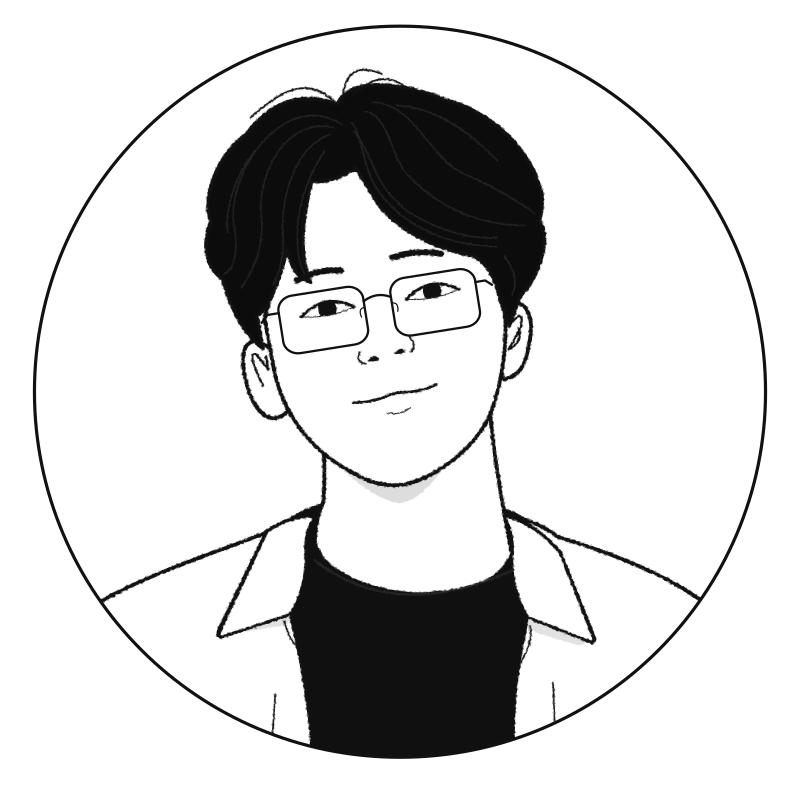
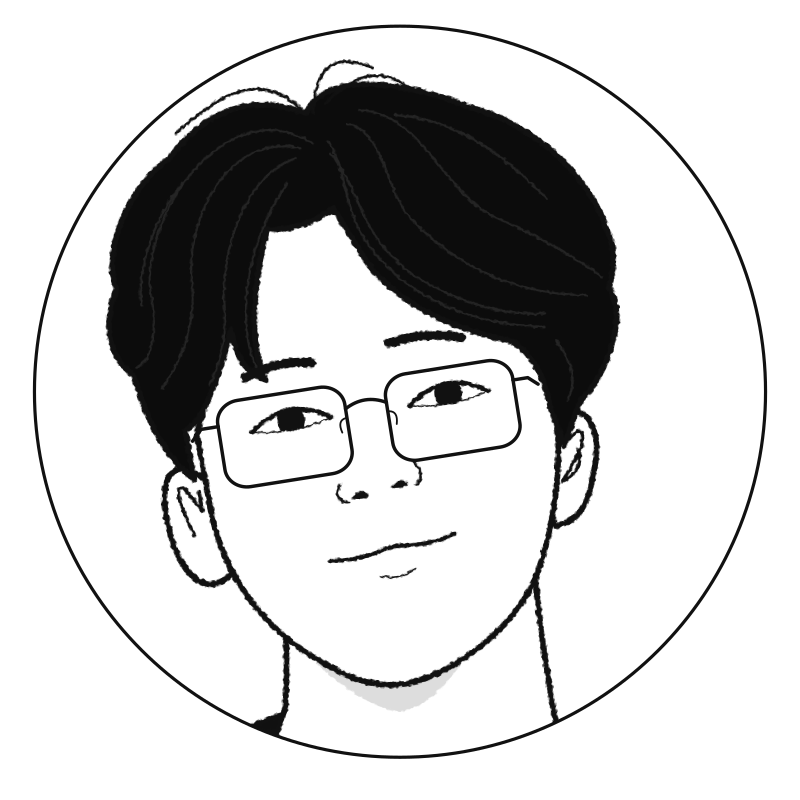
fix: enlarge presenter close-up by another 50 percent

diff --git a/shorts/src/presenter/Presenter.tsx b/shorts/src/presenter/Presenter.tsx
@@ -34,7 +34,7 @@ export const Presenter: React.FC<PresenterState & {pose?: Partial<RigPose>; show
     <circle cx="627" cy="614" r="573" fill="white" />
     <g clipPath={`url(#${id})`} stroke="#111" strokeWidth="5" strokeLinecap="round" strokeLinejoin="round">
       {/* Keep the circular frame fixed; zoom the whole portrait around the hairline. */}
-      <g data-part="portrait-framing" transform="translate(627 135) scale(1.2) translate(-627 -135)">
+      <g data-part="portrait-framing" transform="translate(627 135) scale(1.8) translate(-627 -135)">
       <g data-part="body-ink" filter={`url(#${id}-ink-body)`}>
       <g data-part="body">
         <path d="M466 714 Q511 678 551 680 L732 680 Q785 691 818 722 L862 1240 L413 1240Z" fill="#101010" />

diff --git a/shorts/docs/presenter-api.md b/shorts/docs/presenter-api.md
@@ -4,7 +4,7 @@
 
 손·전완 렌더와 손 제스처를 제거했다. 현재 action은 작은 고개 반응만 보여주며, 어깨 윤곽은 안정된 기본 자세로 유지한다. 새 candidate는 idle/explain/emphasize 중심으로 작성하고 hand=null을 사용한다. point/present 및 손·관절 필드는 v1 후보 호환용으로 남았지만 실제 가리키기/손 모양을 표시하지 않는다. `PRESENTER_CAPABILITIES.hands`는 false다. 아래 손 프리셋 표는 이전 v1 데이터 해석용이며 현재 디자인의 기능 목록이 아니다.
 
-현재 외형은 참조 일러스트를 따라 재구성한 흑백 SVG 선화다. 길쭉한 얼굴, 가르마의 흐름, 눈꺼풀과 동공, 얇은 안경을 독립 파츠로 구성했다. 원본 래스터의 픽셀을 그대로 분리한 결과는 아니며 선의 세부 질감은 다르다. 얼굴 그라데이션은 제거하고 카라·턱 아래에만 얕은 그림자를 남겼다. 흰 배경·원형 크롭·손 없는 바스트를 유지한다. 원형 프레임은 고정하고 캐릭터 전체를 머리 윗부분 기준으로 1.2배 확대해 얼굴 중심의 가까운 구도를 사용한다. 얼굴과 몸의 비율은 유지하며 아래쪽 몸통을 더 많이 크롭한다.
+현재 외형은 참조 일러스트를 따라 재구성한 흑백 SVG 선화다. 길쭉한 얼굴, 가르마의 흐름, 눈꺼풀과 동공, 얇은 안경을 독립 파츠로 구성했다. 원본 래스터의 픽셀을 그대로 분리한 결과는 아니며 선의 세부 질감은 다르다. 얼굴 그라데이션은 제거하고 카라·턱 아래에만 얕은 그림자를 남겼다. 흰 배경·원형 크롭·손 없는 바스트를 유지한다. 원형 프레임은 고정하고 캐릭터 전체를 머리 윗부분 기준으로 1.8배 확대(직전 1.2배 구도에서 50% 추가 확대)해 얼굴 중심의 가까운 구도를 사용한다. 얼굴과 몸의 비율은 유지하며 아래쪽 몸통을 더 많이 크롭한다.
 
 카라 양쪽은 끊김 없는 닫힌 면이며 그림자는 그 뒤에 그린다. 카라 윗부분은 낮추고 목을 카라보다 나중에 그려 피부 앞에 옷깃이 솟지 않게 한다. 안경은 동일 규격의 둥근 사각 렌즈와 브리지로 구성하고 잉크 필터 밖에 둔다. 노딩의 미세한 세로 축소도 역보정해 프레임 비율이 찌그러지지 않는다.
 

diff --git a/shorts/docs/previews/presenter-ink.md b/shorts/docs/previews/presenter-ink.md
@@ -2,9 +2,9 @@
 
 ## Face-focused framing update
 
-![Current 1.2× portrait framing](presenter-zoom.png)
+![Current 1.8× portrait framing](presenter-zoom.png)
 
-The current portrait scales all character layers uniformly by 1.2 around (627, 135),
+The current portrait scales all character layers uniformly by 1.8 (50% larger than the previous 1.2× framing) around (627, 135),
 inside the unchanged circular clip. This keeps the hairline near its original position
 and crops more of the lower torso. The PNG above is rendered from the updated SVG.
 Typecheck and 27 presenter tests pass; default, nod, ±12° tilt, blink and open-mouth
